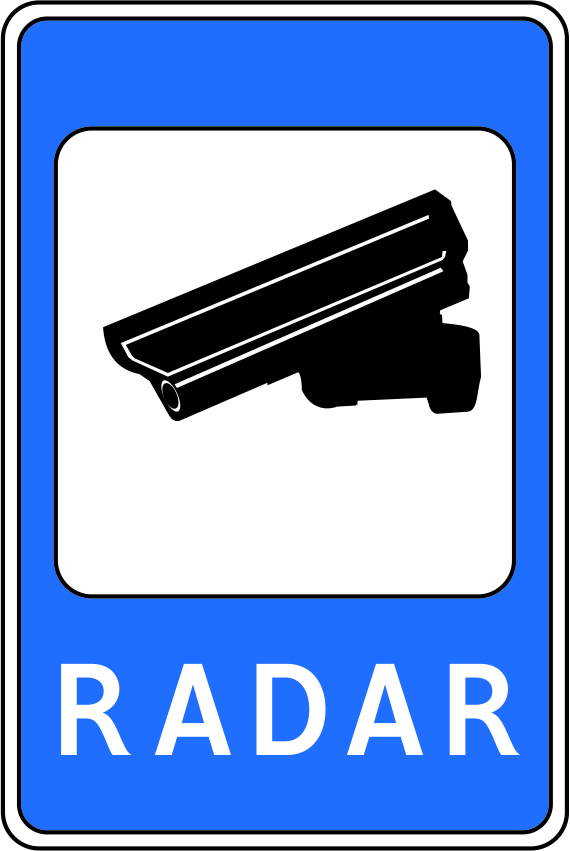
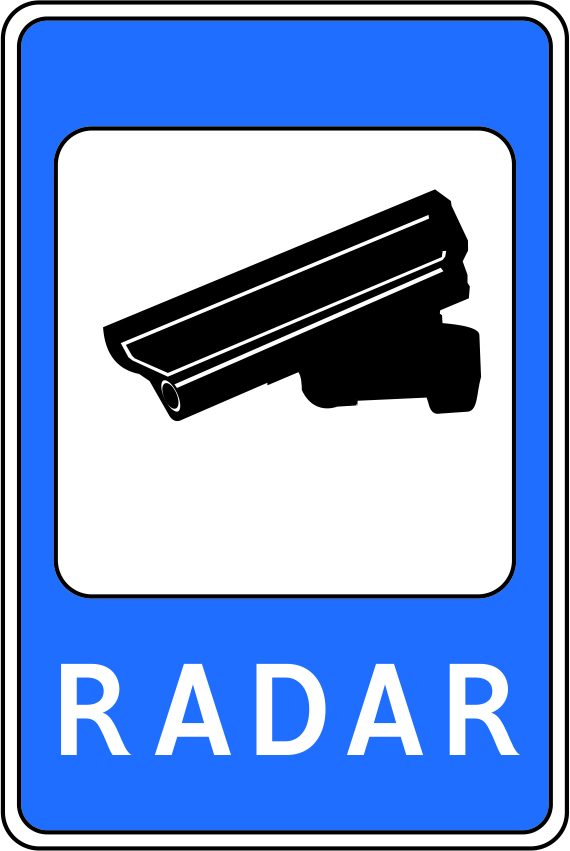
Phase 12: xavfsizlik (Telegram webhook, CORS, _headers/CSP), tezlik (vendor chunklar, lazy TestIshlash, rasm), SECURITY_AUDIT.md
Claude-Session: https://claude.ai/code/session_01QRHeoqUhudK91unKWxntG3

diff --git a/supabase/functions/telegram-bot/index.ts b/supabase/functions/telegram-bot/index.ts
@@ -3,7 +3,10 @@ import { createClient } from "https://esm.sh/@supabase/supabase-js@2";
 const SUPABASE_URL = Deno.env.get("SUPABASE_URL")!;
 const SUPABASE_SERVICE_KEY = Deno.env.get("SB_SERVICE_ROLE_KEY")!;
 const BOT_TOKEN = Deno.env.get("TELEGRAM_BOT_TOKEN")!;
-const WEBHOOK_SECRET = Deno.env.get("TELEGRAM_WEBHOOK_SECRET"); // ixtiyoriy, lekin tavsiya etiladi
+const WEBHOOK_SECRET = Deno.env.get("TELEGRAM_WEBHOOK_SECRET");
+// Xavfsizlik: maxfiy kalit sozlanmagan bo'lsa webhook YOPIQ (har kim soxta update yubora olmasin).
+// Faqat vaqtincha o'tish uchun: TELEGRAM_ALLOW_NO_SECRET=1 (tavsiya etilmaydi).
+const ALLOW_NO_SECRET = Deno.env.get("TELEGRAM_ALLOW_NO_SECRET") === "1";
 
 // Karta ma'lumotlari — Supabase Secrets orqali sozlanadi, shuning uchun
 // kodni qayta deploy qilmasdan o'zgartirish mumkin.
@@ -114,12 +117,15 @@ async function saveSession(session: Partial<Session> & { chat_id: number }) {
 Deno.serve(async (req) => {
   if (req.method !== "POST") return new Response("ok");
 
-  // Ixtiyoriy: Telegram'dan kelayotganini tasdiqlash (soxta so'rovlarni bloklaydi)
+  // Telegram'dan kelayotganini tasdiqlash (soxta so'rovlarni bloklaydi)
   if (WEBHOOK_SECRET) {
     const secretHeader = req.headers.get("X-Telegram-Bot-Api-Secret-Token");
     if (secretHeader !== WEBHOOK_SECRET) {
       return new Response("forbidden", { status: 403 });
     }
+  } else if (!ALLOW_NO_SECRET) {
+    console.error("TELEGRAM_WEBHOOK_SECRET sozlanmagan — so'rov rad etildi");
+    return new Response("webhook secret not configured", { status: 503 });
   }
 
   let update: any;

diff --git a/src/App.tsx b/src/App.tsx
@@ -8,7 +8,6 @@ import { AuthProvider } from "@/contexts/AuthContext";
 import { ThemeProvider } from "@/contexts/ThemeContext";
 import { lazy, Suspense, Component, ReactNode } from "react";
 import Home from "./pages/Home";
-import TestIshlash from "./pages/TestIshlash";
 
 interface EBState { hasError: boolean; }
 class ErrorBoundary extends Component<{ children: ReactNode }, EBState> {
@@ -67,6 +66,7 @@ const Xatolarim   = lazy(() => import("./pages/Xatolarim"));
 const ZaifMavzular = lazy(() => import("./pages/ZaifMavzular"));
 const Mashq       = lazy(() => import("./pages/Mashq"));
 const Imtihon     = lazy(() => import("./pages/Imtihon"));
+const TestIshlash = lazy(() => import("./pages/TestIshlash"));
 const SeoLanding  = lazy(() => import("./pages/SeoLanding"));
 import seoLandings from "./data/seoLandings.json";
 const Admin       = lazy(() => import("./pages/Admin"));

diff --git a/vite.config.ts b/vite.config.ts
@@ -13,6 +13,21 @@ export default defineConfig(({ mode }) => ({
     react(),
     mode === "development" && componentTagger(),
   ].filter(Boolean),
+  build: {
+    rollupOptions: {
+      output: {
+        // Vendor kutubxonalar alohida fayllarga: ilova kodi o'zgarganda ular brauzer keshidan olinadi
+        manualChunks(id: string) {
+          if (!id.includes("node_modules")) return undefined;
+          if (/node_modules\/(react|react-dom|scheduler)\//.test(id)) return "react-vendor";
+          if (/node_modules\/(react-router|react-router-dom|@remix-run)\//.test(id)) return "router";
+          if (id.includes("node_modules/@supabase/")) return "supabase";
+          if (id.includes("node_modules/@tanstack/")) return "query";
+          return undefined;
+        },
+      },
+    },
+  },
   resolve: {
     alias: {
       "@": path.resolve(__dirname, "./src"),

diff --git a/supabase/functions/get-premium-questions/index.ts b/supabase/functions/get-premium-questions/index.ts
@@ -17,7 +17,7 @@ const SUPABASE_URL = Deno.env.get("SUPABASE_URL")!;
 const SUPABASE_SERVICE_KEY = Deno.env.get("SB_SERVICE_ROLE_KEY")!;
 
 const corsHeaders = {
-  "Access-Control-Allow-Origin": "*",
+  "Access-Control-Allow-Origin": Deno.env.get("ALLOWED_ORIGIN") ?? "*",
   "Access-Control-Allow-Headers": "authorization, x-client-info, apikey, content-type",
   "Access-Control-Allow-Methods": "GET, POST, OPTIONS",
 };

diff --git a/supabase/functions/admin-premium/index.ts b/supabase/functions/admin-premium/index.ts
@@ -4,7 +4,7 @@ const SUPABASE_URL = Deno.env.get("SUPABASE_URL")!;
 const SUPABASE_SERVICE_KEY = Deno.env.get("SB_SERVICE_ROLE_KEY")!;
 
 const corsHeaders = {
-  "Access-Control-Allow-Origin": "*",
+  "Access-Control-Allow-Origin": Deno.env.get("ALLOWED_ORIGIN") ?? "*",
   "Access-Control-Allow-Headers": "authorization, x-client-info, apikey, content-type",
 };
 

diff --git a/supabase/functions/auto-confirm-signup/index.ts b/supabase/functions/auto-confirm-signup/index.ts
@@ -9,7 +9,7 @@ const SUPABASE_SERVICE_KEY = Deno.env.get("SB_SERVICE_ROLE_KEY")!;
 const MAX_ACCOUNT_AGE_MINUTES = 10;
 
 const corsHeaders = {
-  "Access-Control-Allow-Origin": "*",
+  "Access-Control-Allow-Origin": Deno.env.get("ALLOWED_ORIGIN") ?? "*",
   "Access-Control-Allow-Headers": "authorization, x-client-info, apikey, content-type",
 };
 

diff --git a/supabase/functions/check-device/index.ts b/supabase/functions/check-device/index.ts
@@ -5,7 +5,7 @@ const SUPABASE_SERVICE_KEY = Deno.env.get("SB_SERVICE_ROLE_KEY")!;
 const MAX_DEVICES = 2;
 
 const corsHeaders = {
-  "Access-Control-Allow-Origin": "*",
+  "Access-Control-Allow-Origin": Deno.env.get("ALLOWED_ORIGIN") ?? "*",
   "Access-Control-Allow-Headers": "authorization, x-client-info, apikey, content-type",
 };
 

diff --git a/SECURITY_AUDIT.md b/SECURITY_AUDIT.md
@@ -1,0 +1,42 @@
+# Xavfsizlik va tezlik auditi (Phase 12)
+
+## Tuzatildi (kodda)
+| Muammo | Tuzatish |
+| --- | --- |
+| Telegram webhook maxfiy kalitsiz ham ishlayotgan edi (`TELEGRAM_WEBHOOK_SECRET` ixtiyoriy) | Kalit sozlanmagan bo'lsa webhook 503 bilan yopiladi (`TELEGRAM_ALLOW_NO_SECRET=1` — faqat vaqtincha) |
+| Edge funksiyalarda CORS hamma joyga ochiq (`*`) | `ALLOWED_ORIGIN` o'zgaruvchisi bilan cheklanadi (o'rnatilmasa avvalgidek ishlaydi) |
+| Cloudflare'da xavfsizlik sarlavhalari yo'q (`netlify.toml` faqat Netlify'da ishlaydi) | `public/_headers`: nosniff, X-Frame-Options, HSTS, Referrer/Permissions-Policy, CSP (hozircha Report-Only) |
+| `test_results` ga brauzerdan soxta natija yozish | Phase 2: `submit_test` RPC + `post-deploy/001_lock_test_results_writes.sql` |
+| Statik savollar uchun xesh/kesh sarlavhalari yo'q | `_headers`: `/assets` va `/fonts` — 1 yil, `/data` va `/mavzuli2` — 5 daqiqa + qayta tekshirish |
+
+## Siz bajarishingiz kerak (kod bilan hal bo'lmaydi)
+1. **`.env` dagi `VITE_SUPABASE_SERVICE_KEY` va `VITE_ADMIN_SECRET` ni o'chiring va service kalitni almashtiring (rotate).**
+   Fayl gitga kirmagan va `src` da ishlatilmaydi (yig'ilgan `dist` da ham yo'q), lekin u ushbu ishga arxiv ichida yuborilgan: kalitni oshkor bo'lgan deb hisoblang. Supabase → Project Settings → API → service_role → *Reset*. `VITE_` prefiksi kalitni brauzer paketiga kiritadi, shuning uchun maxfiy kalit hech qachon bunday nomlanmasin.
+2. **Telegram:** funksiya o'zgaruvchilariga `TELEGRAM_WEBHOOK_SECRET` (tasodifiy uzun matn) qo'shing va webhookni shu kalit bilan qayta ro'yxatdan o'tkazing:
+   `https://api.telegram.org/bot<TOKEN>/setWebhook?url=<FUNKSIYA_URL>&secret_token=<KALIT>`. **Funksiyani shundan oldin deploy qilmang**, aks holda bot to'xtaydi.
+3. **CORS:** funksiyalarga `ALLOWED_ORIGIN=https://smartavto.uz` qo'shing (sayt `www` bilan ham ochilsa, avval bitta asosiy manzilga yo'naltiring).
+4. **CSP:** deploydan so'ng sayt bo'ylab (test, darslik video, to'lov, Telegram) brauzer konsolida "Content-Security-Policy-Report-Only" ogohlantirishlari qolmaganini tekshiring, so'ng `_headers` da nomini `Content-Security-Policy` ga o'zgartiring.
+5. `001_lock_test_results_writes.sql` ni yangi sayt deploy qilinib, `user_answers` ga yozuvlar tushayotgani tasdiqlangandan keyin ishga tushiring.
+6. Supabase Auth → "Leaked password protection" ni yoqing.
+
+## Tekshirildi, muammo topilmadi
+- **XSS:** `dangerouslySetInnerHTML` faqat `ui/chart.tsx` da (statik konfiguratsiya, foydalanuvchi matni emas). Foydalanuvchi HTML'i hech qayerda chiqarilmaydi.
+- **SQL injection:** barcha so'rovlar Supabase klienti yoki parametrli RPC orqali; qo'lda SQL yig'ish yo'q.
+- **CSRF:** autentifikatsiya cookie emas, `Authorization: Bearer` sarlavhasida: CSRF qo'llanilmaydi.
+- **Admin:** `admin-premium` har so'rovda JWT va `has_role(..., 'admin')` ni serverda tekshiradi; `get_admin_analytics` ham.
+- **Premium:** `get-premium-questions` server vaqti bilan tarifni tekshiradi.
+- **Rate limiting:** `submit_test` soatiga 60 ta, `track_event` 5 soniyada 1 ta.
+
+## Ma'lum, o'zgartirilmagan xavflar (qaror kerak)
+- `auto-confirm-signup` autentifikatsiyasiz: faqat 10 daqiqadan yosh, tasdiqlanmagan hisobni tasdiqlaydi (UUID taxmin qilinmaydi). Bu email tasdiqlashni ongli ravishda o'chirib qo'yadi: boshqa odamning emaili bilan ro'yxatdan o'tish mumkin.
+- `get-premium-questions` butun premium bazani bitta javobda beradi: premium foydalanuvchi uni to'liq nusxalashi mumkin.
+
+## Tezlik (haqiqiy `vite build` bilan o'lchandi)
+| Ko'rsatkich | Oldin | Keyin |
+| --- | --- | --- |
+| Asosiy JS (gzip) | 223.6 KB bitta fayl | ~204 KB, 5 fayl (vendor alohida) |
+| Ilova kodi o'zgargandan keyin qayta yuklanadigan JS | 223.6 KB | ~94 KB (vendor keshdan) |
+| `TestIshlash` (test interfeyslari) | bosh sahifa paketida | alohida chunk (9.8 KB gzip), kerak bo'lganda yuklanadi |
+| `belgilar/184782...jpg` | 1.9 MB (CMYK) | 44 KB |
+
+Qilinmadi: `/images` (135 MB) allaqachon asosan WebP va talab bo'yicha yuklanadi; admin paneli (132 KB) allaqachon alohida chunk.
